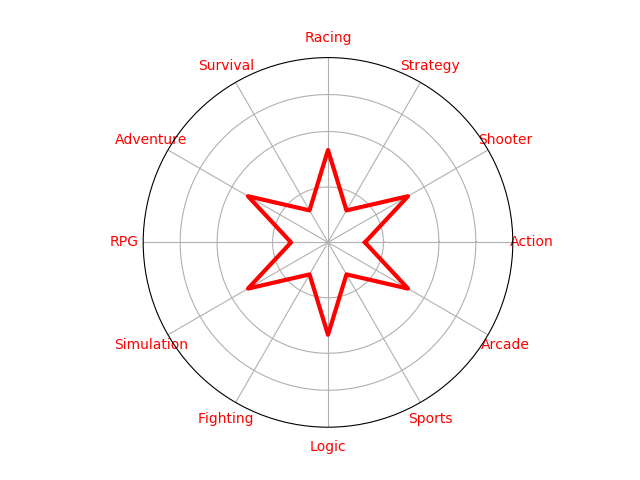
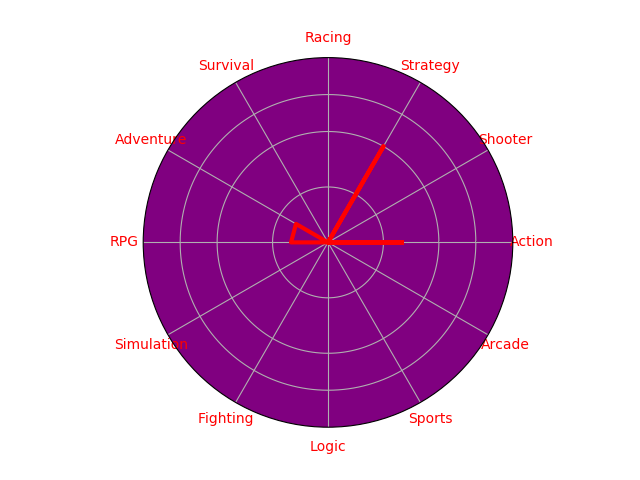
Update on Heatmap

diff --git a/Recommender/HeatMap/HeatMap_Script.py b/Recommender/HeatMap/HeatMap_Script.py
@@ -3,11 +3,38 @@ import matplotlib.pyplot as plt
 import pandas as pd
 from math import pi
 import json
+import requests as req
+import sys
 
+profile = sys.argv[1]
+
+response = req.get("https://localhost:5001/api/profile/getUserGenres?userId=" + profile)
+#response =("https://localhost:5001/api/profile/getUserGenres?userId=" + profile)
+#print(response)
+
+##Uncomment below function when used with req
+#data = json.loads(response.text)
+#df = pd.DataFrame({
+#'IdUser': data['userId'],
+#'Action': data['genres']['Action'],
+#'Shooter': data['genres']['Shooter'],
+#'Strategy': data['genres']['Strategy'],
+#'Racing': data['genres']['Racing'],
+#'Survival': data['genres']['Survival'],
+#'Adventure': data['genres']['Adventure'],
+#'RPG': data['genres']['RPG'],
+#'Simulation': data['genres']['Simulation'],
+#'Fighting': data['genres']['Fighting'],
+#'Logic': data['genres']['Logic'],
+#'Sports': data['genres']['Sports'],
+#'Arcade': data['genres']['Arcade']
+#}, index=[0])
+
+##Comment Below Function when used with req
 with open('example_json.json') as json_file:
     data = json.load(json_file)
     df = pd.DataFrame({
-    'IdUser': data['genres']['IdUser'],
+    'IdUser': data['userId'],
     'Action': data['genres']['Action'],
     'Shooter': data['genres']['Shooter'],
     'Strategy': data['genres']['Strategy'],
@@ -55,4 +82,4 @@ ax.set_facecolor('purple')
 
 # Fill area
 ax.fill(angles, values, 'b', alpha=0.0)
-plt.savefig('heatplot.png', transparent=True)
+plt.savefig('heatplot.png', transparent=False)
